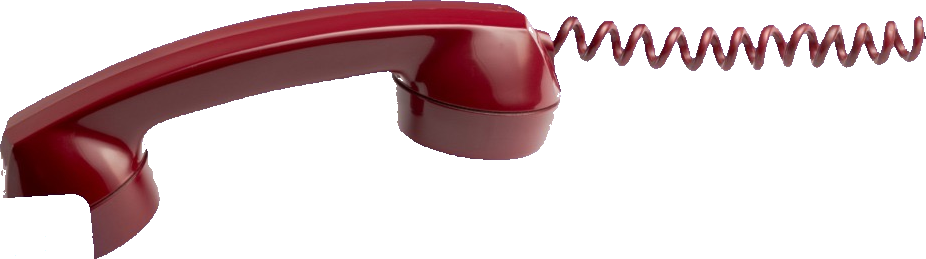
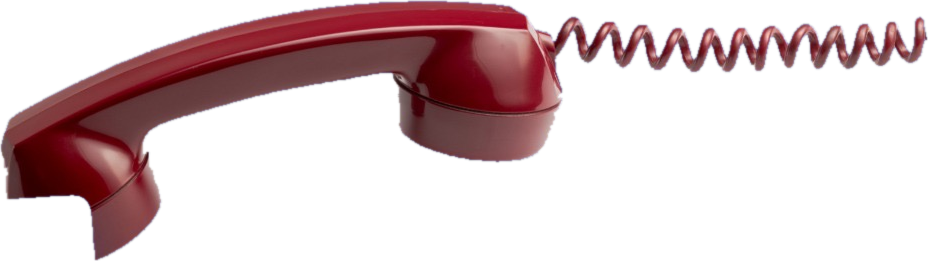
Clean up slide 03 phone cutout
Re-extract the red handset with flood-fill background removal for crisp
edges (no ragged blue fringe, no left-side speckles), and raise the Hello
bubble so it overlaps the earpiece and covers the area the original bubble
occluded. Phone now reads as a complete, clean handset.

diff --git a/design/slide-03.html b/design/slide-03.html
@@ -5,9 +5,9 @@
   .phone{position:absolute;top:336px;left:74px;width:912px;z-index:2;
     filter:drop-shadow(0 30px 42px rgba(8,16,60,.50));}
   .burst{position:absolute;top:352px;left:74px;width:120px;height:120px;z-index:2;}
-  .bubble{position:absolute;top:520px;left:104px;z-index:3;
+  .bubble{position:absolute;top:474px;left:92px;z-index:3;
     background:#2f63ff;color:#fff;font-family:'Inter Display','Inter',sans-serif;font-weight:800;
-    font-size:44px;letter-spacing:-.02em;padding:16px 30px 20px;border-radius:22px;
+    font-size:44px;letter-spacing:-.02em;padding:16px 32px 20px;border-radius:22px;
     box-shadow:0 18px 32px rgba(8,16,60,.42);}
   .bubble::after{content:"";position:absolute;left:36px;bottom:-18px;
     border-left:0 solid transparent;border-right:30px solid transparent;border-top:24px solid #2f63ff;}
